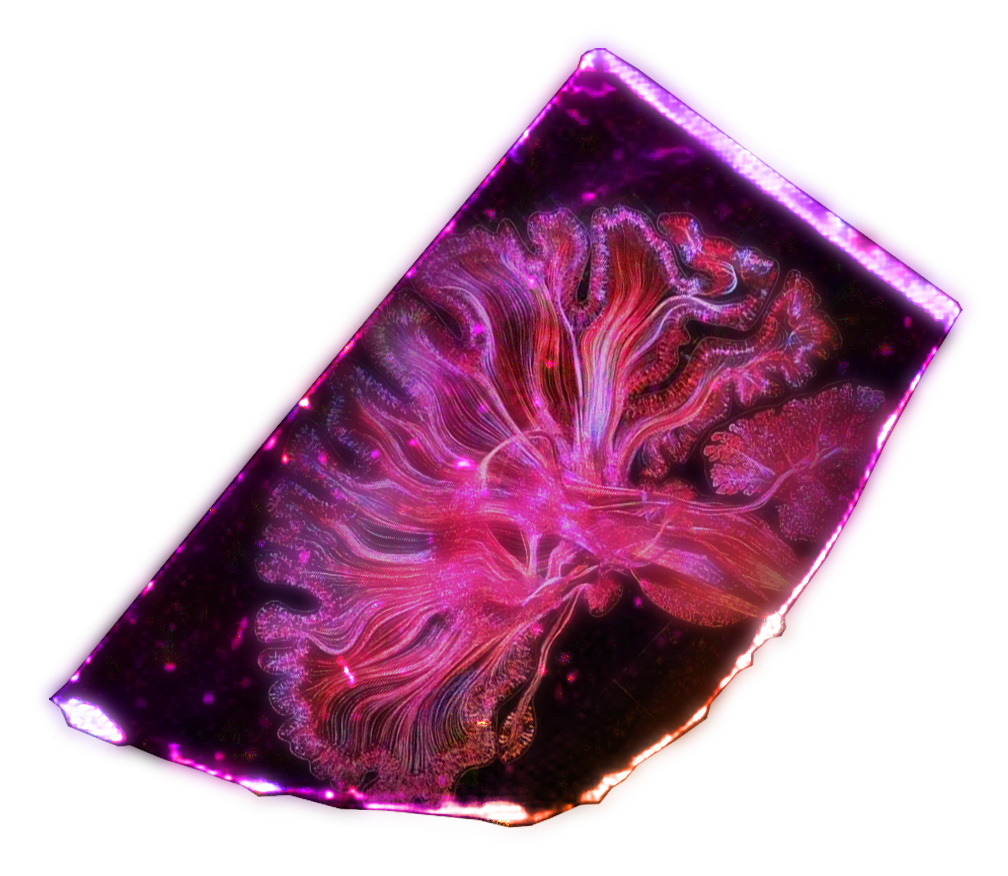
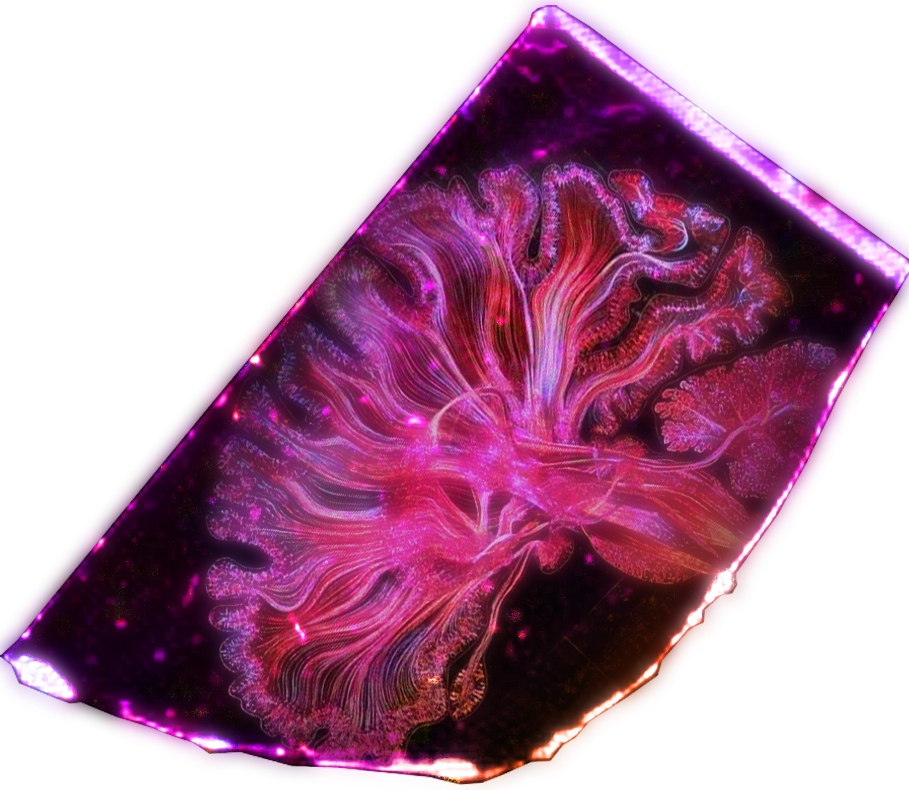
added dot bg and update gallery

diff --git a/src/components/InteractiveDotBackground.tsx b/src/components/InteractiveDotBackground.tsx
@@ -1,0 +1,124 @@
+import { useEffect, useRef } from "react";
+import gsap from "gsap";
+
+// Tunables — change these to taste
+const GAP = 34; // px between dots
+const DOT_RADIUS = 1.6; // base dot size
+const HOVER_RADIUS = 140; // px falloff around cursor
+const BASE_ALPHA = 0.15; // resting opacity
+const MAX_ALPHA = 0.9; // opacity right under cursor
+const MAX_SCALE = 2.6; // size multiplier under cursor
+
+// Club zone colors (top → mid → bottom), RGB triples
+const MATRIX = [81, 126, 255]; // #517eff
+const ECOMM = [0, 197, 42]; // #00C52A
+const PSYNAPSE = [255, 49, 215]; // punchier, more saturated pink
+const REST = [150, 150, 150]; // resting grey
+
+// Blend the three club colors across a normalized axis (0..1)
+const zoneColor = (n: number): number[] => {
+  const c = Math.min(1, Math.max(0, n)) * 2; // 0..2 span
+  const [a, b, f] = c < 1 ? [MATRIX, ECOMM, c] : [ECOMM, PSYNAPSE, c - 1];
+  return [a[0] + (b[0] - a[0]) * f, a[1] + (b[1] - a[1]) * f, a[2] + (b[2] - a[2]) * f];
+};
+
+type Dot = { x: number; y: number };
+
+export default function InteractiveDotBackground() {
+  const canvasRef = useRef<HTMLCanvasElement | null>(null);
+
+  useEffect(() => {
+    const canvas = canvasRef.current;
+    if (!canvas) return;
+    const ctx = canvas.getContext("2d");
+    if (!ctx) return;
+
+    let dots: Dot[] = [];
+    let dpr = Math.min(window.devicePixelRatio || 1, 2);
+
+    // Virtual tracker GSAP eases toward the raw pointer — this is the smoothing.
+    const pointer = { x: -9999, y: -9999 };
+    const tracker = { x: -9999, y: -9999 };
+    const moveX = gsap.quickTo(tracker, "x", { duration: 0.4, ease: "power3.out" });
+    const moveY = gsap.quickTo(tracker, "y", { duration: 0.4, ease: "power3.out" });
+
+    const buildGrid = () => {
+      const w = window.innerWidth;
+      const h = window.innerHeight;
+      dpr = Math.min(window.devicePixelRatio || 1, 2);
+      canvas.width = w * dpr;
+      canvas.height = h * dpr;
+      canvas.style.width = `${w}px`;
+      canvas.style.height = `${h}px`;
+      ctx.setTransform(dpr, 0, 0, dpr, 0, 0);
+
+      dots = [];
+      const cols = Math.ceil(w / GAP);
+      const rows = Math.ceil(h / GAP);
+      const offsetX = (w - (cols - 1) * GAP) / 2;
+      const offsetY = (h - (rows - 1) * GAP) / 2;
+      for (let r = 0; r < rows; r++) {
+        for (let c = 0; c < cols; c++) {
+          dots.push({ x: offsetX + c * GAP, y: offsetY + r * GAP });
+        }
+      }
+    };
+
+    const render = () => {
+      const w = window.innerWidth;
+      const h = window.innerHeight;
+      ctx.clearRect(0, 0, w, h);
+
+      // Active zone color from cursor y — computed once per frame
+      const zone = zoneColor(tracker.y / h);
+
+      const r2 = HOVER_RADIUS * HOVER_RADIUS;
+      for (let i = 0; i < dots.length; i++) {
+        const d = dots[i];
+        const dx = d.x - tracker.x;
+        const dy = d.y - tracker.y;
+        const dist2 = dx * dx + dy * dy;
+
+        let t = 0; // 0 = resting, 1 = fully lit
+        if (dist2 < r2) t = 1 - Math.sqrt(dist2) / HOVER_RADIUS;
+
+        const alpha = BASE_ALPHA + (MAX_ALPHA - BASE_ALPHA) * t;
+        const radius = DOT_RADIUS * (1 + (MAX_SCALE - 1) * t);
+
+        ctx.beginPath();
+        ctx.arc(d.x, d.y, radius, 0, Math.PI * 2);
+        const cr = REST[0] + (zone[0] - REST[0]) * t;
+        const cg = REST[1] + (zone[1] - REST[1]) * t;
+        const cb = REST[2] + (zone[2] - REST[2]) * t;
+        ctx.fillStyle = `rgba(${cr | 0}, ${cg | 0}, ${cb | 0}, ${alpha})`;
+        ctx.fill();
+      }
+    };
+
+    const onMove = (e: PointerEvent) => {
+      pointer.x = e.clientX;
+      pointer.y = e.clientY;
+      moveX(pointer.x);
+      moveY(pointer.y);
+    };
+
+    buildGrid();
+    window.addEventListener("resize", buildGrid);
+    window.addEventListener("pointermove", onMove);
+    gsap.ticker.add(render);
+
+    return () => {
+      gsap.ticker.remove(render);
+      window.removeEventListener("resize", buildGrid);
+      window.removeEventListener("pointermove", onMove);
+      gsap.killTweensOf(tracker);
+    };
+  }, []);
+
+  return (
+    <canvas
+      ref={canvasRef}
+      className="fixed inset-0 -z-10 pointer-events-none bg-[#0a0a0a]"
+    />
+  );
+}

diff --git a/src/components/Home/GallerySection.tsx b/src/components/Home/GallerySection.tsx
@@ -96,7 +96,7 @@ export const GallerySection = () => {
     return (
         <div
             ref={outerRef}
-            className="relative w-full md:h-[280vh]"
+            className="relative w-full md:h-[260vh]"
         >
             {/* Sticky viewport (desktop) / normal flow (mobile) */}
             <div
@@ -117,7 +117,7 @@ export const GallerySection = () => {
                     ref={trackRef}
                     className={cn(
                         "md:flex md:items-center md:w-max md:will-change-transform",
-                        "grid grid-cols-1 gap-6 px-4 py-24 md:gap-8 md:px-[12vw] md:py-0"
+                        "grid grid-cols-1 gap-6 px-4 py-24 md:gap-8 md:px-[37vw] md:py-0"
                     )}
                 >
                     {images.map((img, idx) => (
@@ -126,9 +126,9 @@ export const GallerySection = () => {
                             className={cn(
                                 "gallery-frame group relative overflow-hidden",
                                 "transition-colors duration-500 group-hover:border-yellow/40",
-                                "h-[56vw] md:h-[62vh] md:shrink-0 w-full",
-                                idx % 2 === 1 ? "md:mt-20 ml-[47dvw] md:ml-0" : "md:mb-20",
-                                idx === 8 ? "md:w-max" : "md:w-[44vh]"
+                                "h-[56vw] md:h-[52vh] md:shrink-0 w-full",
+                                idx % 2 === 1 ? "md:mt-20 ml-[24dvw] md:ml-0" : "md:mb-20",
+                                idx === 8 ? "md:w-max" : "md:w-max"
                             )}
                         >
                             <img
@@ -138,7 +138,7 @@ export const GallerySection = () => {
                                 className={cn(
                                     "h-full object-cover transition-transform duration-500 w-full",
                                     "border border-white/10",
-                                    idx === 8 ? "md:w-auto w-full" : "md:w-full w-1/2")}
+                                    idx === 8 ? "md:w-auto w-full" : "md:w-auto w-3/4")}
                             />
                             <span className="absolute bottom-3 left-4 font-primary text-sm text-offwhite/70 tracking-widest">
                                 {String(idx + 1).padStart(2, "0")}

diff --git a/src/pages/Home.tsx b/src/pages/Home.tsx
@@ -5,7 +5,6 @@ import { ReactLenis } from "lenis/react";
 import "lenis/dist/lenis.css";
 
 import { HeroSection } from "../components/Home/HeroSection";
-import dotBg from "../assets/images/dot-background.png";
 import { Footer } from "../components/Footer";
 import { Navbar } from "../components/Navbar";
 import { EventSection } from "../components/Home/EventSection";
@@ -13,6 +12,7 @@ import { GallerySection } from "../components/Home/GallerySection";
 import { MembersSection } from "../components/Home/MembersSection";
 import { Cursor } from "../components/Cursor";
 import { Ribbon } from "../components/Ribbon";
+import InteractiveDotBackground from "../components/InteractiveDotBackground";
 
 gsap.registerPlugin(ScrollTrigger);
 
@@ -92,12 +92,9 @@ export const Home = () => {
     return (
         <ReactLenis root ref={lenisRef} options={{ autoRaf: false }}>
             <div className="relative min-h-screen bg-black font-secondary w-full cursor-auto md:cursor-none overflow-x-clip">
-                <div className="fixed inset-0 w-full h-full z-0 opacity-30 pointer-events-none">
-                    <img
-                        src={dotBg}
-                        alt=""
-                        className="w-full h-full object-cover"
-                    />
+                <div className="fixed inset-0 w-full h-full z-0 opacity-80 pointer-events-none">
+                    <InteractiveDotBackground />
+
                 </div>
 
                 <div className="relative z-10 w-full flex flex-col">

diff --git a/src/components/Home/HeroSection.tsx b/src/components/Home/HeroSection.tsx
@@ -17,6 +17,8 @@ export const HeroSection = (() => {
 
 
     useGSAP(() => {
+        let panScrollTrigger: ScrollTrigger | null = null;
+
         const prefersReducedMotion = window.matchMedia("(prefers-reduced-motion: reduce)").matches;
 
         const matrixLettersRM = gsap.utils.toArray(".matrix-letter");
@@ -60,7 +62,7 @@ export const HeroSection = (() => {
             onComplete: () => {
                 window.dispatchEvent(new CustomEvent("heroAnimationComplete"));
 
-                ScrollTrigger.create({
+                panScrollTrigger = ScrollTrigger.create({
                     animation: scrollTl,
                     trigger: containerRef.current,
                     start: "top top",
@@ -231,6 +233,7 @@ export const HeroSection = (() => {
 
         return () => {
             window.removeEventListener("preloaderComplete", startAnimation);
+            panScrollTrigger?.kill();
         };
     }, []);
 

diff --git a/src/components/Home/EventSection.tsx b/src/components/Home/EventSection.tsx
@@ -4,6 +4,7 @@ import { matrixLogo, ecommLogo, psynapseLogo } from "../../data/clubs.ts";
 import matrixShard from "../../assets/images/matrix-shard.png";
 import ecommShard from "../../assets/images/ecomm-shard.png";
 import psynapseShard from "../../assets/images/psynapse-shard.png";
+import quizShard from "../../assets/images/quiz-shard.png";
 import gsap from "gsap";
 import { ScrollTrigger } from "gsap/ScrollTrigger";
 import { useGSAP } from "@gsap/react";
@@ -165,7 +166,7 @@ const acts = [
     { key: "matrix", config: clubConfig.matrix, logo: matrixLogo, events: matrixEvents, shards: matrixShards },
     { key: "ecomm", config: clubConfig.ecomm, logo: ecommLogo, events: ecommEvents, shards: ecommShards },
     { key: "psynapse", config: clubConfig.psynapse, logo: psynapseLogo, events: psynapseEvents, shards: psynapseShards },
-    { key: "quiz", config: clubConfig.quiz, logo: undefined, events: quizEvent, shards: psynapseShards },
+    { key: "quiz", config: clubConfig.quiz, logo: undefined, events: quizEvent, shards: [quizShard] },
 ] as const;
 
 // Flatten into a single ordered list of event "beats" across all three acts.

diff --git a/src/components/Footer.tsx b/src/components/Footer.tsx
@@ -19,7 +19,7 @@ export const Footer = () => {
     return (
         <div
             className={cn(
-                "relative w-full bg-black overflow-hidden select-none",
+                "relative w-full overflow-hidden select-none",
                 "flex flex-col items-center justify-center pt-24 pb-12 z-10"
             )}>
 

diff --git a/src/pages/Alumni.tsx b/src/pages/Alumni.tsx
@@ -7,6 +7,7 @@ import { Cursor } from "../components/Cursor";
 import { alumniData } from "../data/clubs";
 import { cn } from "../utils.tsx";
 import type { AlumniMember, AlumniClub } from "../data/clubs";
+import InteractiveDotBackground from "../components/InteractiveDotBackground";
 
 gsap.registerPlugin(ScrollTrigger);
 
@@ -272,6 +273,7 @@ export const Alumni = () => {
 
     return (
         <div className="min-h-screen bg-[#0a0a0a] text-offwhite relative overflow-x-hidden md:cursor-none">
+            <InteractiveDotBackground />
             {/* Ambient glows */}
             <div className="fixed w-[600px] h-[600px] bg-[var(--color-matrix)]/[0.04] rounded-full blur-[160px] pointer-events-none top-0 left-0 -translate-x-1/3 -translate-y-1/3" />
             <div className="fixed w-[500px] h-[500px] bg-[var(--color-ecomm)]/[0.04] rounded-full blur-[140px] pointer-events-none top-1/2 right-0 translate-x-1/3" />

diff --git a/src/pages/MembersPage.tsx b/src/pages/MembersPage.tsx
@@ -7,6 +7,7 @@ import { ScrollTrigger } from "gsap/ScrollTrigger";
 import { Footer } from "../components/Footer";
 import { MembersHero } from "../components/Team/MembersHero";
 import { ClubSection } from "../components/Team/ClubSection";
+import InteractiveDotBackground from "../components/InteractiveDotBackground";
 
 gsap.registerPlugin(ScrollTrigger);
 
@@ -18,6 +19,7 @@ export const MembersPage = () => {
 
     return (
         <div className="min-h-screen bg-[#0a0a0a] text-offwhite relative overflow-x-hidden md:cursor-none">
+            <InteractiveDotBackground />
             {/* Ambient glows */}
             <div className="fixed w-[600px] h-[600px] bg-[var(--color-matrix)]/[0.04] rounded-full blur-[160px] pointer-events-none top-0 left-0 -translate-x-1/3 -translate-y-1/3" />
             <div className="fixed w-[500px] h-[500px] bg-[var(--color-ecomm)]/[0.04] rounded-full blur-[140px] pointer-events-none top-1/2 right-0 translate-x-1/3" />

diff --git a/src/components/Home/MembersSection.tsx b/src/components/Home/MembersSection.tsx
@@ -10,7 +10,6 @@ export const MembersSection = () => {
     return (
         <div id="membersSection" className="min-h-screen w-full flex flex-col items-center relative overflow-hidden py-24 z-10 bg-black">
 
-
             {/* Clubs Grid */}
             <div className="flex flex-col items-center">
                 {clubs.map((club, idx) => (